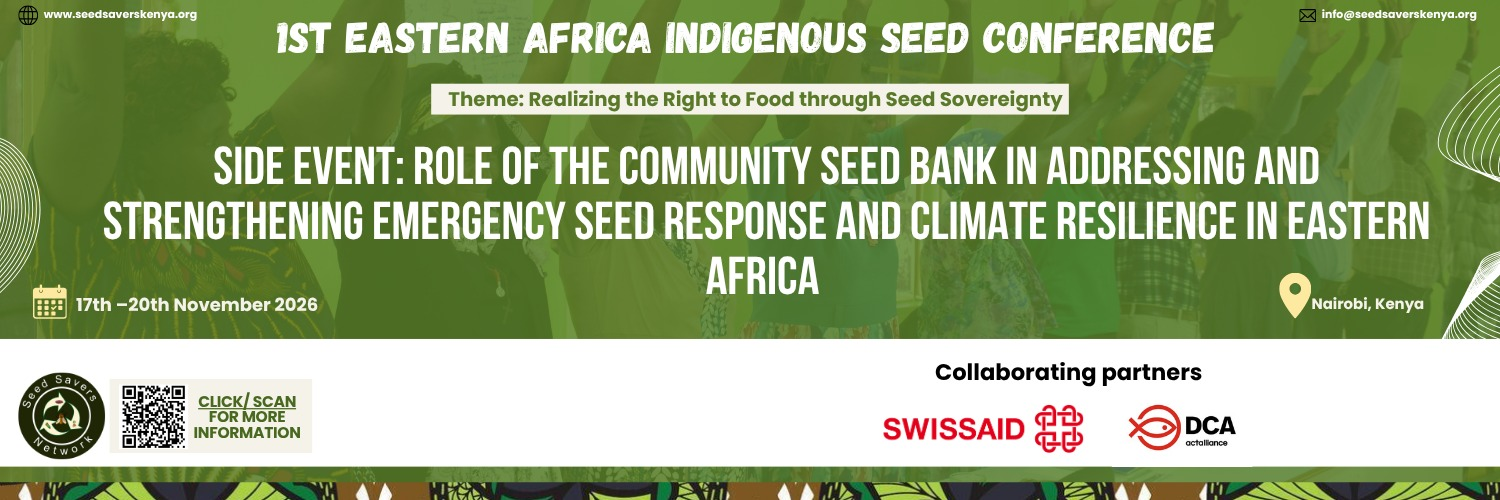
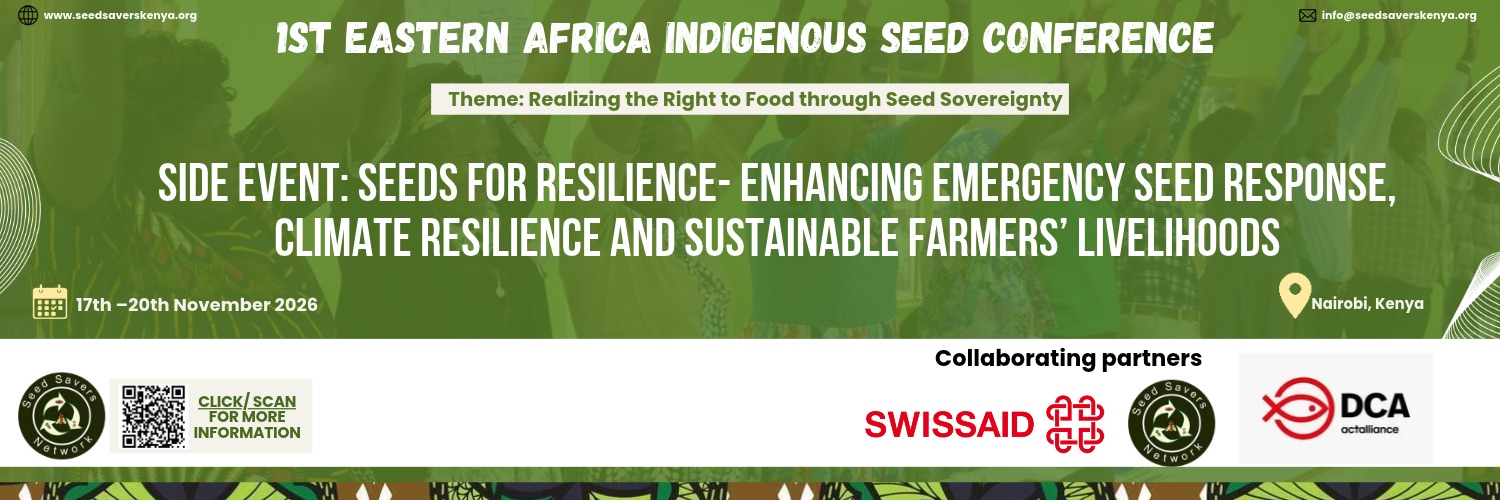
swissAid

diff --git a/src/pages/CallForSideEventsPage.tsx b/src/pages/CallForSideEventsPage.tsx
@@ -237,14 +237,13 @@ const confirmedSideEvents: ConfirmedSideEvent[] = [
   },
   {
     title:
-      "Role of the community seed bank in addressing and strengthening Emergency seed response and climate resilience in Eastern Africa",
+      "Seeds for Resilience - Enhancing Emergency Seed Response, Climate Resilience and Sustainable Farmers' Livelihoods",
     organisers: "  Swissaid, DCA Kenya, Seed Savers Network",
     description: [
-      "Share practical experiences and lessons on the role of community seed banks in emergency seed response and post-disaster recovery",
-      "The 1st Eastern Africa Indigenous Seed Conference 2026 provides an important platform for farmers, policymakers, researchers, civil society organizations, and seed advocates to exchange knowledge and develop strategies for protecting indigenous seeds and strengthening farmer-managed seed systems across Eastern Africa.",
-        "Across the region, farming communities increasingly face the effects of climate change, including prolonged droughts, unpredictable rainfall, floods, crop failures, and declining agricultural biodiversity. These challenges threaten food security, agricultural livelihoods, and farmers’ ability to access diverse and locally adapted seeds, particularly in arid and semi-arid lands (ASALs) and other climate-vulnerable areas.",
-        "Emergency seed preparedness and response  is an important intervention following climate-related disasters and other shocks. However, conventional emergency seed responses often rely on externally sourced, commercially available, or formally certified seeds, which may not adequately reflect farmers’ preferences, local growing conditions, cultural practices, and diverse seed needs. Delays in seed distribution and limited availability of locally adapted varieties can further undermine the effectiveness of emergency interventions.",
-        "This side event will provide a platform to examine how community seed banks can contribute to effective emergency seed response, climate adaptation, and resilient farmer-managed seed systems. It will draw on practical experiences from Eastern Africa, with particular attention to community-led approaches in drought-prone and climate-vulnerable farming communities"
+      "To strengthen the capacity of humanitarian and development actors to support farmer-managed seed systems and enhance climate resilience, food security and sustainable livelihoods in Eastern Africa.",
+      "The side event will provide a platform for dialogue, knowledge exchange, and collective action among farmers, humanitarian and development practitioners, researchers, policymakers, civil society organizations, and other stakeholders working to support farmer-managed seed systems in the context of climate change and humanitarian crises.",
+      "The side event will explore practical approaches to enhancing emergency seed response, promoting climate-resilient agricultural practices, and supporting sustainable livelihoods for smallholder farmers. Through interactive discussions, experience sharing, and reflection on policy and practice, participants will highlight successful initiatives, identify existing gaps, and explore opportunities for collaboration across the region.",
+      "Particular attention will be given to the role of community seed banks, farmer-managed seed networks, and local knowledge in sustaining seed diversity and advancing resilient food systems. The event will conclude with shared recommendations and actionable commitments to strengthen emergency seed response, promote enabling policy environments, and ensure that farmers remain central to the conservation and use of agricultural biodiversity."
     ],
     poster: sideEventSWISSDCA,
   },
